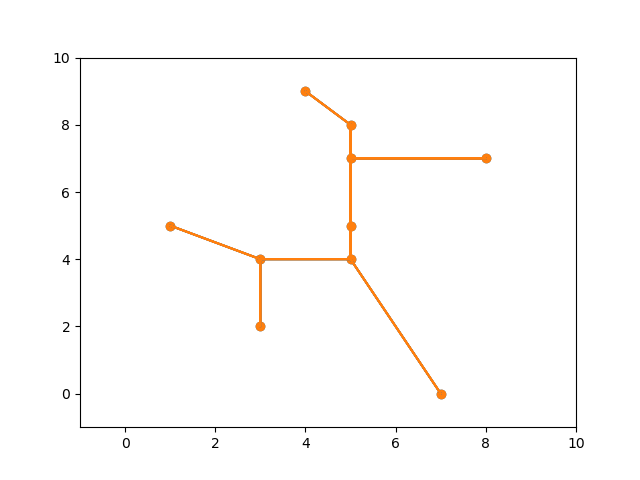
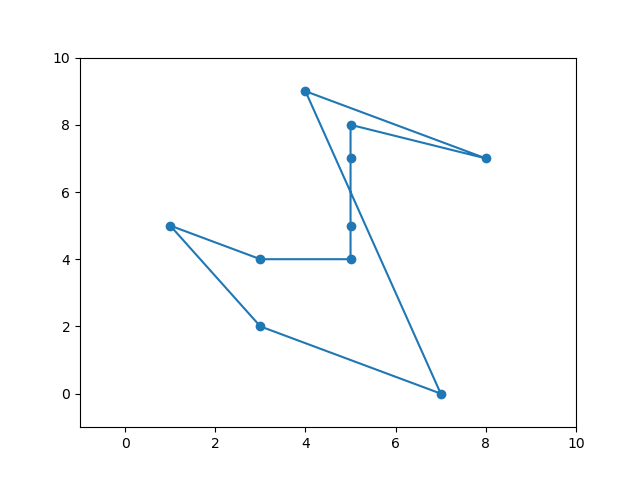
TSPの局所探索(2-opt)

diff --git a/TSP/TSP.py b/TSP/TSP.py
@@ -1,4 +1,4 @@
-from matplotlib.pyplot import plot,show,scatter,savefig,xlim,ylim
+from matplotlib.pyplot import plot,show,scatter,savefig,xlim,ylim,clf
 from math import hypot
 # UnionFind
 class UnionFind():
@@ -32,7 +32,8 @@ class UnionFind():
             self.nodes[small_root]=big_root
         return True
 
-
+def round(x:float):
+    return int(x+0.5)
 def read_points(input_file):
     points = []
     with open(input_file, "r") as f:
@@ -41,8 +42,10 @@ def read_points(input_file):
         for xy in lines[1:]:
             x,y = map(int,xy.split())
             points.append((x,y))
-        matrix = [[hypot(x1-x2, y1-y2) for x1,y1 in points] for x2,y2 in points]
-        # print(*matrix,sep="\n")
+        matrix = [[round(hypot(x1-x2, y1-y2)) for x1,y1 in points] for x2,y2 in points]
+        for m in matrix:
+            print(*m)
+            
     return matrix, points
 
 def get_initial_tour_DMST(edges:list, N:int):
@@ -81,17 +84,32 @@ def plot_graph(points:list, tour:list, file_name:str):
     Y2 = [Y[i] for i in tour]
     plot(X2,Y2)
 
-    # show()
     savefig(file_name)
+    clf()
+    # show()
 
-# def remove_edge(tour:list):
-#     last = 0
-#     visited = {0}
-#     result = []
-#     for cur in tour[1:]:
-#         result[]
+def remove_edge(tour:list):
+    visited = set()
+    result = []
+    for cur in tour:
+        if(cur in visited): continue
+        result.append(cur)
+        visited.add(cur)
+    result.append(tour[0])
+    return result
 
-#     tour[:] = result
+def two_opt(points:list, tour:list, matrix:list, obj_func_val:int, depth:int):
+    tour_length = len(tour)
+    for i in range(1,tour_length-1):
+        a,b = tour[i-1], tour[i]
+        for j in range(i+1, tour_length-1):
+            c,d = tour[j],tour[j+1]
+            val = obj_func_val - matrix[a][b] - matrix[c][d] + matrix[a][c] + matrix[b][d] #swap後の目的関数値
+            if(obj_func_val>val):
+                tour[i:j+1] = tour[i:j+1][::-1] #2辺swap
+                plot_graph(points, tour, "solution_depth{:0>2}.png".format(depth))
+                print("深さ:{}, 目的関数値:{}, 解:{}".format(depth, val, tour))
+                return two_opt(points, tour, matrix, val, depth + 1)
 
 def main():
     matrix, points = read_points("./in.txt")
@@ -100,14 +118,18 @@ def main():
 
     #----初期解生成----
     tour = get_initial_tour_DMST(edges,N)
-    
-    # sol_edge = [(tour[i-1],tour[i]) for i,_ in enumerate(tour)]
-    plot_graph(points, tour, "spaning_tree.png")
+    print("tour:",tour)
 
-    # sol_edge = remove_edge(tour)
+    # sol_edge = [(tour[i],tour[i+1]) for i,_ in enumerate(tour[:-1])]
+    plot_graph(points, tour, "spaning_tree.png")
+    
+    tour = remove_edge(tour)
     plot_graph(points, tour, "initial_solution.png")
 
     #----局所探索----
+    obj_func_val = sum([matrix[tour[i]][tour[i+1]] for i,_ in enumerate(tour[:-1])])
+    obj_func_val = two_opt(points, tour, matrix, obj_func_val, 0)
+
 
 if __name__ == "__main__":
     main()
